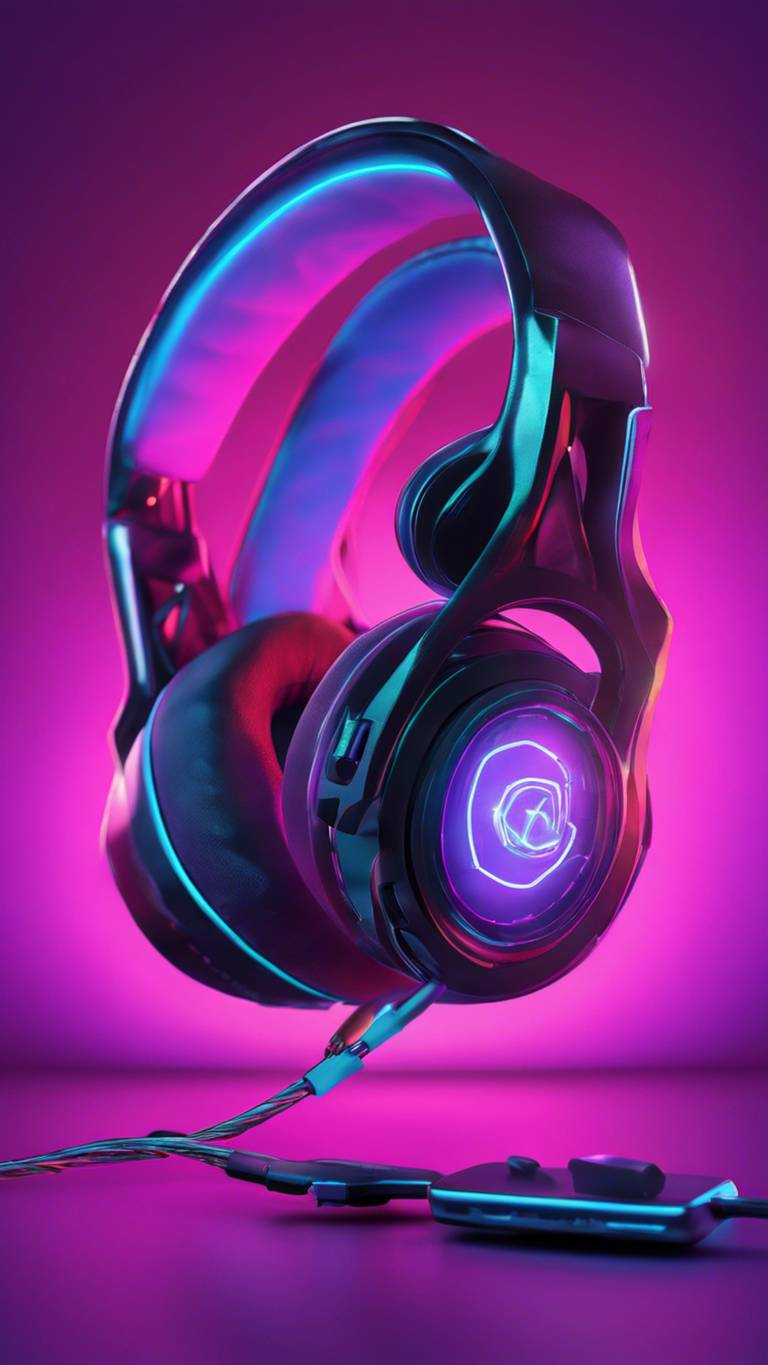
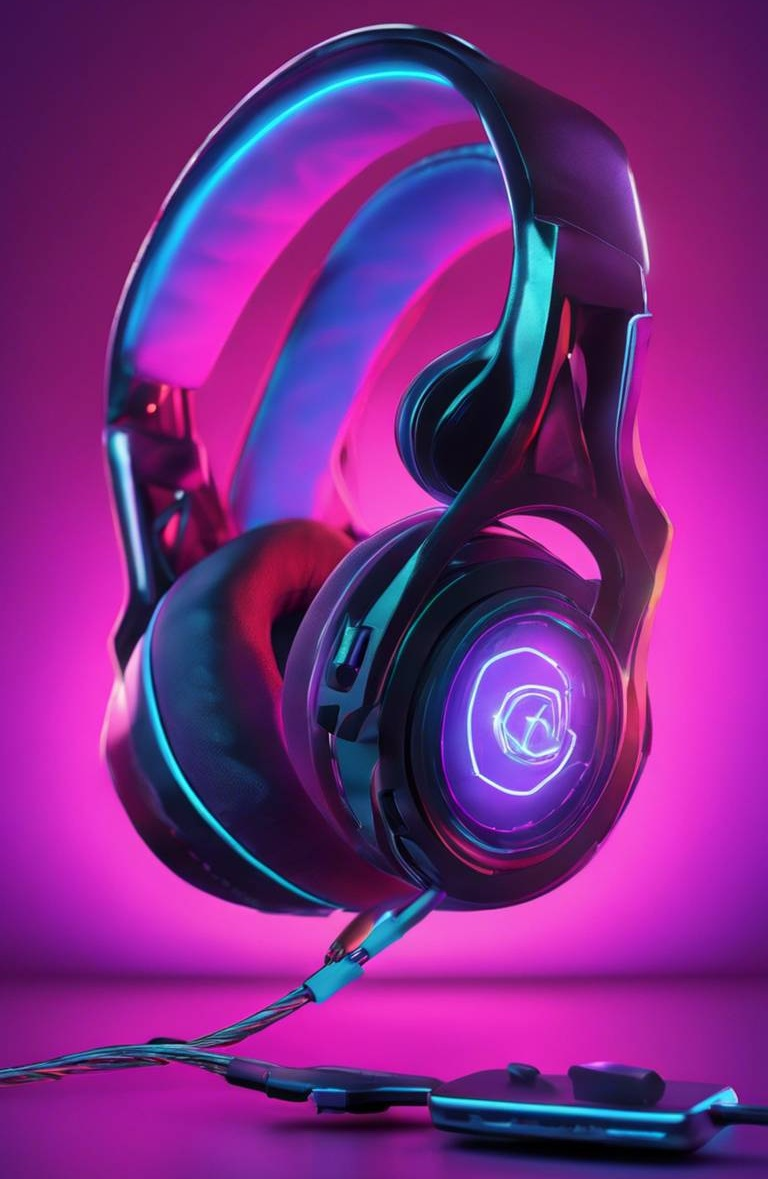
Add image and styling to hero poster card

diff --git a/frontend/src/css/heroPosterCard.css b/frontend/src/css/heroPosterCard.css
@@ -1,0 +1,10 @@
+.hero-card {
+    height: 600px;
+    width: 390px;
+    background-image: url("/heroPosterCard.jpg");
+    background-repeat: no-repeat;
+    background-position: center;
+    background-size: contain;
+    box-shadow: rgba(0, 0, 0, 0.24) 0px 3px 8px;
+    border-radius: 40px;
+}

diff --git a/frontend/src/components/HeroPosterCard.jsx b/frontend/src/components/HeroPosterCard.jsx
@@ -1,11 +1,7 @@
 import "../css/heroPosterCard.css";
 
 const HeroPosterCard = () => {
-  return (
-    <>
-      <div className="hero-card">Card</div>
-    </>
-  );
+  return <div className="hero-card"></div>;
 };
 
 export default HeroPosterCard;
